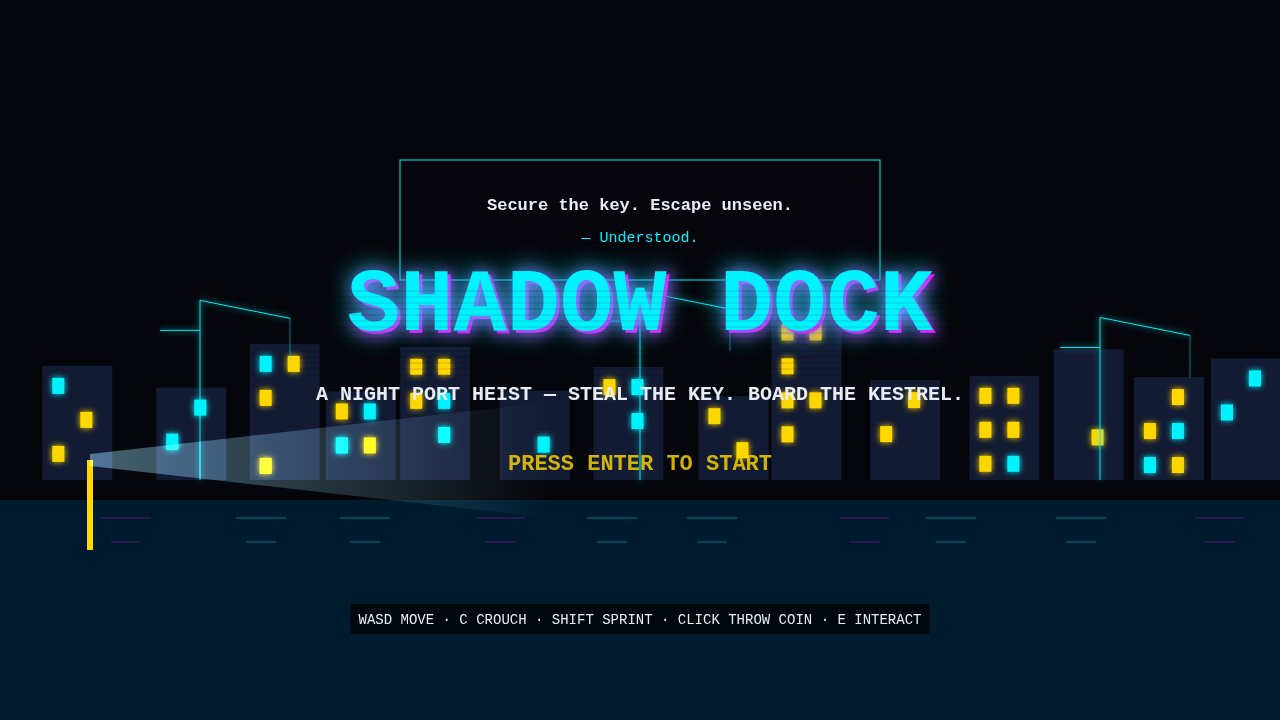
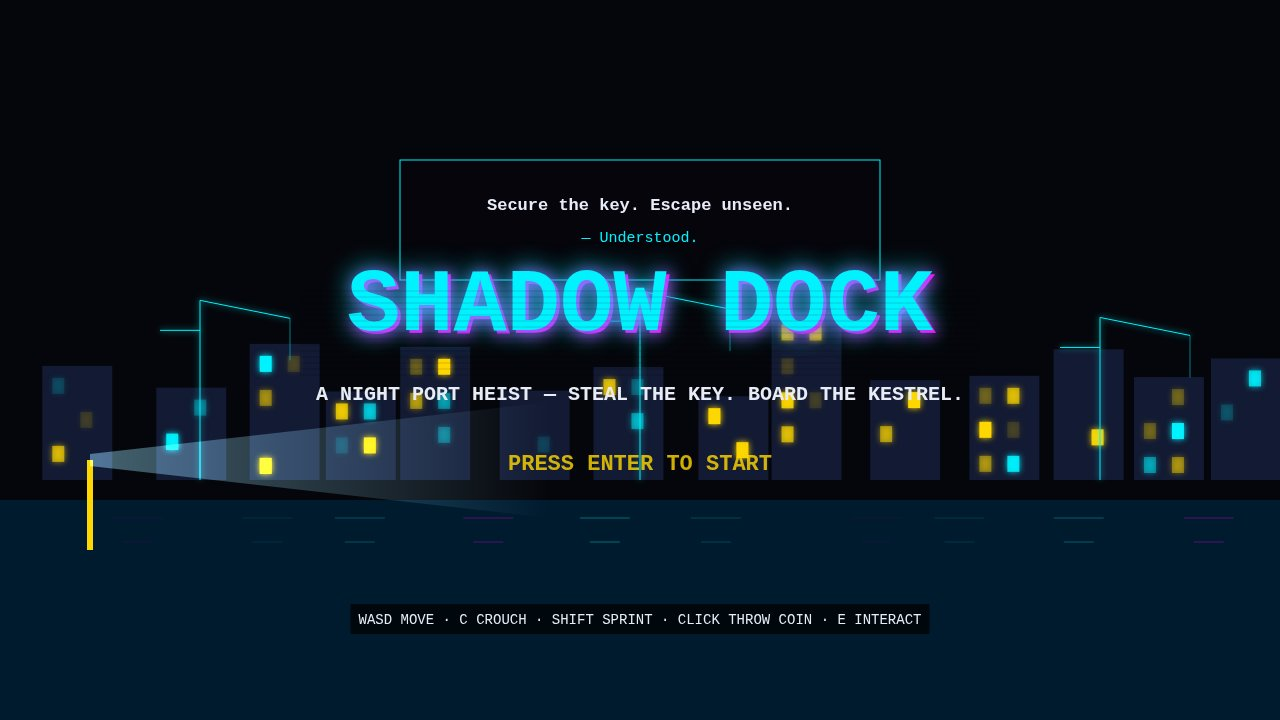
SHADOW DOCK round 3: UI/display alive (flicker, pulse, twinkle, dust, breathing HUD, god-ray pulse) + win driver anticipates guard turns (Grade S attempt)

diff --git a/game/src/render.js b/game/src/render.js
@@ -37,11 +37,20 @@ export class Renderer {
     this.ctx = canvas.getContext('2d');
     this.dark = makeLayer(WIDTH, HEIGHT);
     this.fogBlobs = [];
-    for (let i = 0; i < 22; i++) {
+    for (let i = 0; i < 30; i++) {
       this.fogBlobs.push({
         x: Math.random() * WIDTH, y: Math.random() * HEIGHT,
-        r: 120 + Math.random() * 180, speed: 4 + Math.random() * 8,
-        a: 0.05 + Math.random() * 0.05,
+        r: 120 + Math.random() * 180, speed: 5 + Math.random() * 9,
+        a: 0.07 + Math.random() * 0.06,
+      });
+    }
+    // Ambient dust motes (deterministic placement, animated by time).
+    this.dust = [];
+    for (let i = 0; i < 46; i++) {
+      this.dust.push({
+        x: hashNoise(i, 0, 41) * WIDTH, y: hashNoise(i, 1, 41) * HEIGHT,
+        r: 1 + hashNoise(i, 2, 41) * 1.6, speed: 3 + hashNoise(i, 3, 41) * 7,
+        phase: hashNoise(i, 4, 41) * Math.PI * 2,
       });
     }
   }
@@ -173,7 +182,10 @@ export class Renderer {
           if (levelAt(tx, ty - 1) !== T.CONTAINER) {
             const pick = hashNoise(tx, ty, 13);
             const col = pick < 0.5 ? PALETTE.cyan : pick < 0.8 ? PALETTE.magenta : PALETTE.amber;
+            // Neon strips pulse (1Hz, per-tile phase) — the yard breathes.
+            const pulse = 0.65 + 0.35 * Math.sin(world.time * 6.3 + tx * 0.9 + ty * 1.4);
             ctx.save();
+            ctx.globalAlpha = pulse;
             ctx.shadowColor = col;
             ctx.shadowBlur = 6;
             ctx.fillStyle = col;
@@ -248,7 +260,10 @@ export class Renderer {
       } else if (d.kind === 'lamp') {
         ctx.fillStyle = '#3a3a3a';
         ctx.fillRect(cx - 2, cy - 10, 4, 20);
+        // Dock lamps flicker (per-lamp phase) — a living yard.
+        const flick = 0.72 + 0.28 * Math.sin(world.time * 3.1 + d.tx * 1.7 + d.ty * 2.3);
         ctx.save();
+        ctx.globalAlpha = flick;
         ctx.shadowColor = PALETTE.yellow;
         ctx.shadowBlur = 10;
         ctx.fillStyle = PALETTE.yellow;
@@ -710,10 +725,11 @@ export class Renderer {
     };
     const lx = 4 * TILE + Math.cos(world.lighthouseAngle) * 320;
     const ly = 2 * TILE + Math.sin(world.lighthouseAngle) * 60;
-    ray(lx, ly, world.lighthouseAngle + Math.PI / 2, 340, 46, '159,232,255', 0.16);
+    // God rays breathe with time — the beams are visibly sweeping.
+    ray(lx, ly, world.lighthouseAngle + Math.PI / 2, 340, 46, '159,232,255', 0.13 + 0.06 * Math.sin(world.time * 1.7));
     const cx = 16.5 * TILE + Math.cos(world.craneAngle) * 240;
     const cy = 7.5 * TILE + Math.sin(world.craneAngle) * 150;
-    ray(16.5 * TILE, 7.5 * TILE, world.craneAngle, 300, 34, '255,255,255', 0.2);
+    ray(16.5 * TILE, 7.5 * TILE, world.craneAngle, 300, 34, '255,255,255', 0.16 + 0.07 * Math.sin(world.time * 2.3 + 1));
     ctx.restore();
     // 4) Water reflections: light streaks on the water under each light.
     ctx.save();
@@ -752,6 +768,19 @@ export class Renderer {
       ctx.fill();
     }
     ctx.restore();
+    // 6) Ambient dust motes drifting through the light — the air is alive.
+    ctx.save();
+    for (const m of this.dust) {
+      const mx = (m.x + world.time * m.speed) % WIDTH;
+      const my = m.y + Math.sin(world.time * 0.8 + m.phase) * 6;
+      const tw = 0.25 + 0.25 * Math.sin(world.time * 2 + m.phase);
+      ctx.globalAlpha = tw;
+      ctx.fillStyle = '#cfe8ff';
+      ctx.beginPath();
+      ctx.arc(mx, my, m.r, 0, Math.PI * 2);
+      ctx.fill();
+    }
+    ctx.restore();
   }
 
   // --- HUD ---------------------------------------------------------------
@@ -779,7 +808,10 @@ export class Renderer {
     const rr = 16;
     const col = d < 35 ? '#2fbf5a' : d < 70 ? PALETTE.yellow : PALETTE.red;
     const label = d < 35 ? 'HIDDEN' : d < 70 ? 'SPOTTED' : 'SEEN';
+    // Detection ring breathes (a living HUD) — faster when danger rises.
+    const breathe = 0.85 + 0.15 * Math.sin(world.time * 2.4);
     ctx.save();
+    ctx.globalAlpha = breathe;
     ctx.shadowColor = PALETTE.cyan;
     ctx.shadowBlur = 8;
     ctx.strokeStyle = 'rgba(255,255,255,0.18)';
@@ -798,10 +830,15 @@ export class Renderer {
       ctx.stroke();
       ctx.globalAlpha = 1;
     }
+    // The SEEN label pulses in brightness (always visible — a staged
+    // screenshot must never catch it hidden) — the danger is unmissable.
+    ctx.save();
+    if (label === 'SEEN') ctx.globalAlpha = 0.8 + 0.2 * Math.sin(world.time * 10);
     ctx.fillStyle = col;
     ctx.font = `bold 11px ${FONT}`;
     ctx.textAlign = 'center';
     ctx.fillText(label, mx, my + 32);
+    ctx.restore();
     // Lit/shadow indicator: whether the player is in an environmental light.
     const lit = world.playerLit ? world.playerLit() : false;
     ctx.fillStyle = lit ? PALETTE.yellow : PALETTE.cyan;
@@ -865,13 +902,16 @@ export class Renderer {
       const by = 480 - bh;
       ctx.fillStyle = '#131a33';
       ctx.fillRect(bx, by, 70, bh);
-      // Neon windows (small cyan/yellow rects with glow).
+      // Neon windows (small cyan/yellow rects with glow), twinkling.
       const rows = Math.floor(bh / 34);
       for (let r = 0; r < rows; r++) {
         for (let c = 0; c < 2; c++) {
           if (hashNoise(i * 7 + r, c, 17) > 0.45) {
             const winCol = hashNoise(i, r + c, 19) > 0.5 ? PALETTE.cyan : PALETTE.yellow;
+            // Windows twinkle (per-window phase) — the skyline is awake.
+            const tw = 0.55 + 0.45 * Math.sin(world.time * 2.2 + i * 1.3 + r * 2.1 + c * 3.7);
             ctx.save();
+            ctx.globalAlpha = tw;
             ctx.shadowColor = winCol;
             ctx.shadowBlur = 6;
             ctx.fillStyle = winCol;
@@ -911,9 +951,10 @@ export class Renderer {
     ctx.fillRect(0, 500, WIDTH, 220);
     const wob = Math.sin(world.time * 2) * 2;
     ctx.save();
-    ctx.globalAlpha = 0.5;
     for (let i = 0; i < 10; i++) {
-      const rx = 80 + i * 120 + hashNoise(i, 9, 29) * 40;
+      // Reflections drift and shimmer — the water is moving.
+      const rx = 80 + i * 120 + hashNoise(i, 9, 29) * 40 + Math.sin(world.time * 0.7 + i) * 12;
+      ctx.globalAlpha = 0.3 + 0.2 * Math.sin(world.time * 1.8 + i * 1.1);
       ctx.strokeStyle = i % 3 === 0 ? 'rgba(255,0,255,0.35)' : 'rgba(0,255,255,0.4)';
       ctx.lineWidth = 2;
       ctx.beginPath();
@@ -1101,8 +1142,11 @@ export class Renderer {
     ctx.moveTo(370, 380);
     ctx.lineTo(910, 380);
     ctx.stroke();
-    for (const px of [460, 540, 620, 700, 780, 860]) {
+    for (let pi = 0; pi < 6; pi++) {
+      const px = [460, 540, 620, 700, 780, 860][pi];
+      // Portholes twinkle — the ship is alive and lit.
       ctx.save();
+      ctx.globalAlpha = 0.6 + 0.4 * Math.sin(world.time * 2.6 + pi * 1.7);
       ctx.fillStyle = PALETTE.amber;
       ctx.shadowColor = PALETTE.amber;
       ctx.shadowBlur = 4;

diff --git a/game/src/shots.js b/game/src/shots.js
@@ -41,6 +41,21 @@ function guardCovers(g, x, y, crouched) {
     const mf = Math.atan2(g.vy, g.vx);
     if (canSee(g.x, g.y, mf, VISION.halfAngle + MARGIN_ANGLE, VISION.range + MARGIN_RANGE, x, y, crouched).visible) return true;
   }
+  // Round 3 (12:35 WIB): a patrolling guard turns toward its NEXT
+  // waypoint after its pause — a waiting player in that turn's sweep
+  // gets caught even though the CURRENT facing is safe (G2's turn at
+  // (11,15) swept its cone onto a stationary player at row 10, t=7.85,
+  // and the rev2 movement-facing check misses it because the guard's
+  // velocity is 0 while it pauses). So check the next-waypoint facing
+  // too: the cone the guard is ABOUT to sweep. The driver then waits
+  // west of the sweep (near tile 7) instead of inside it, and only
+  // crosses after G2 has turned and moved on.
+  if (!g.static && g.route && g.route.length > 1) {
+    const wp = g.route[g.waypoint % g.route.length];
+    const c = tileCenter(wp[0], wp[1]);
+    const nf = Math.atan2(c.y - g.y, c.x - g.x);
+    if (canSee(g.x, g.y, nf, VISION.halfAngle + MARGIN_ANGLE, VISION.range + MARGIN_RANGE, x, y, crouched).visible) return true;
+  }
   return false;
 }
 
